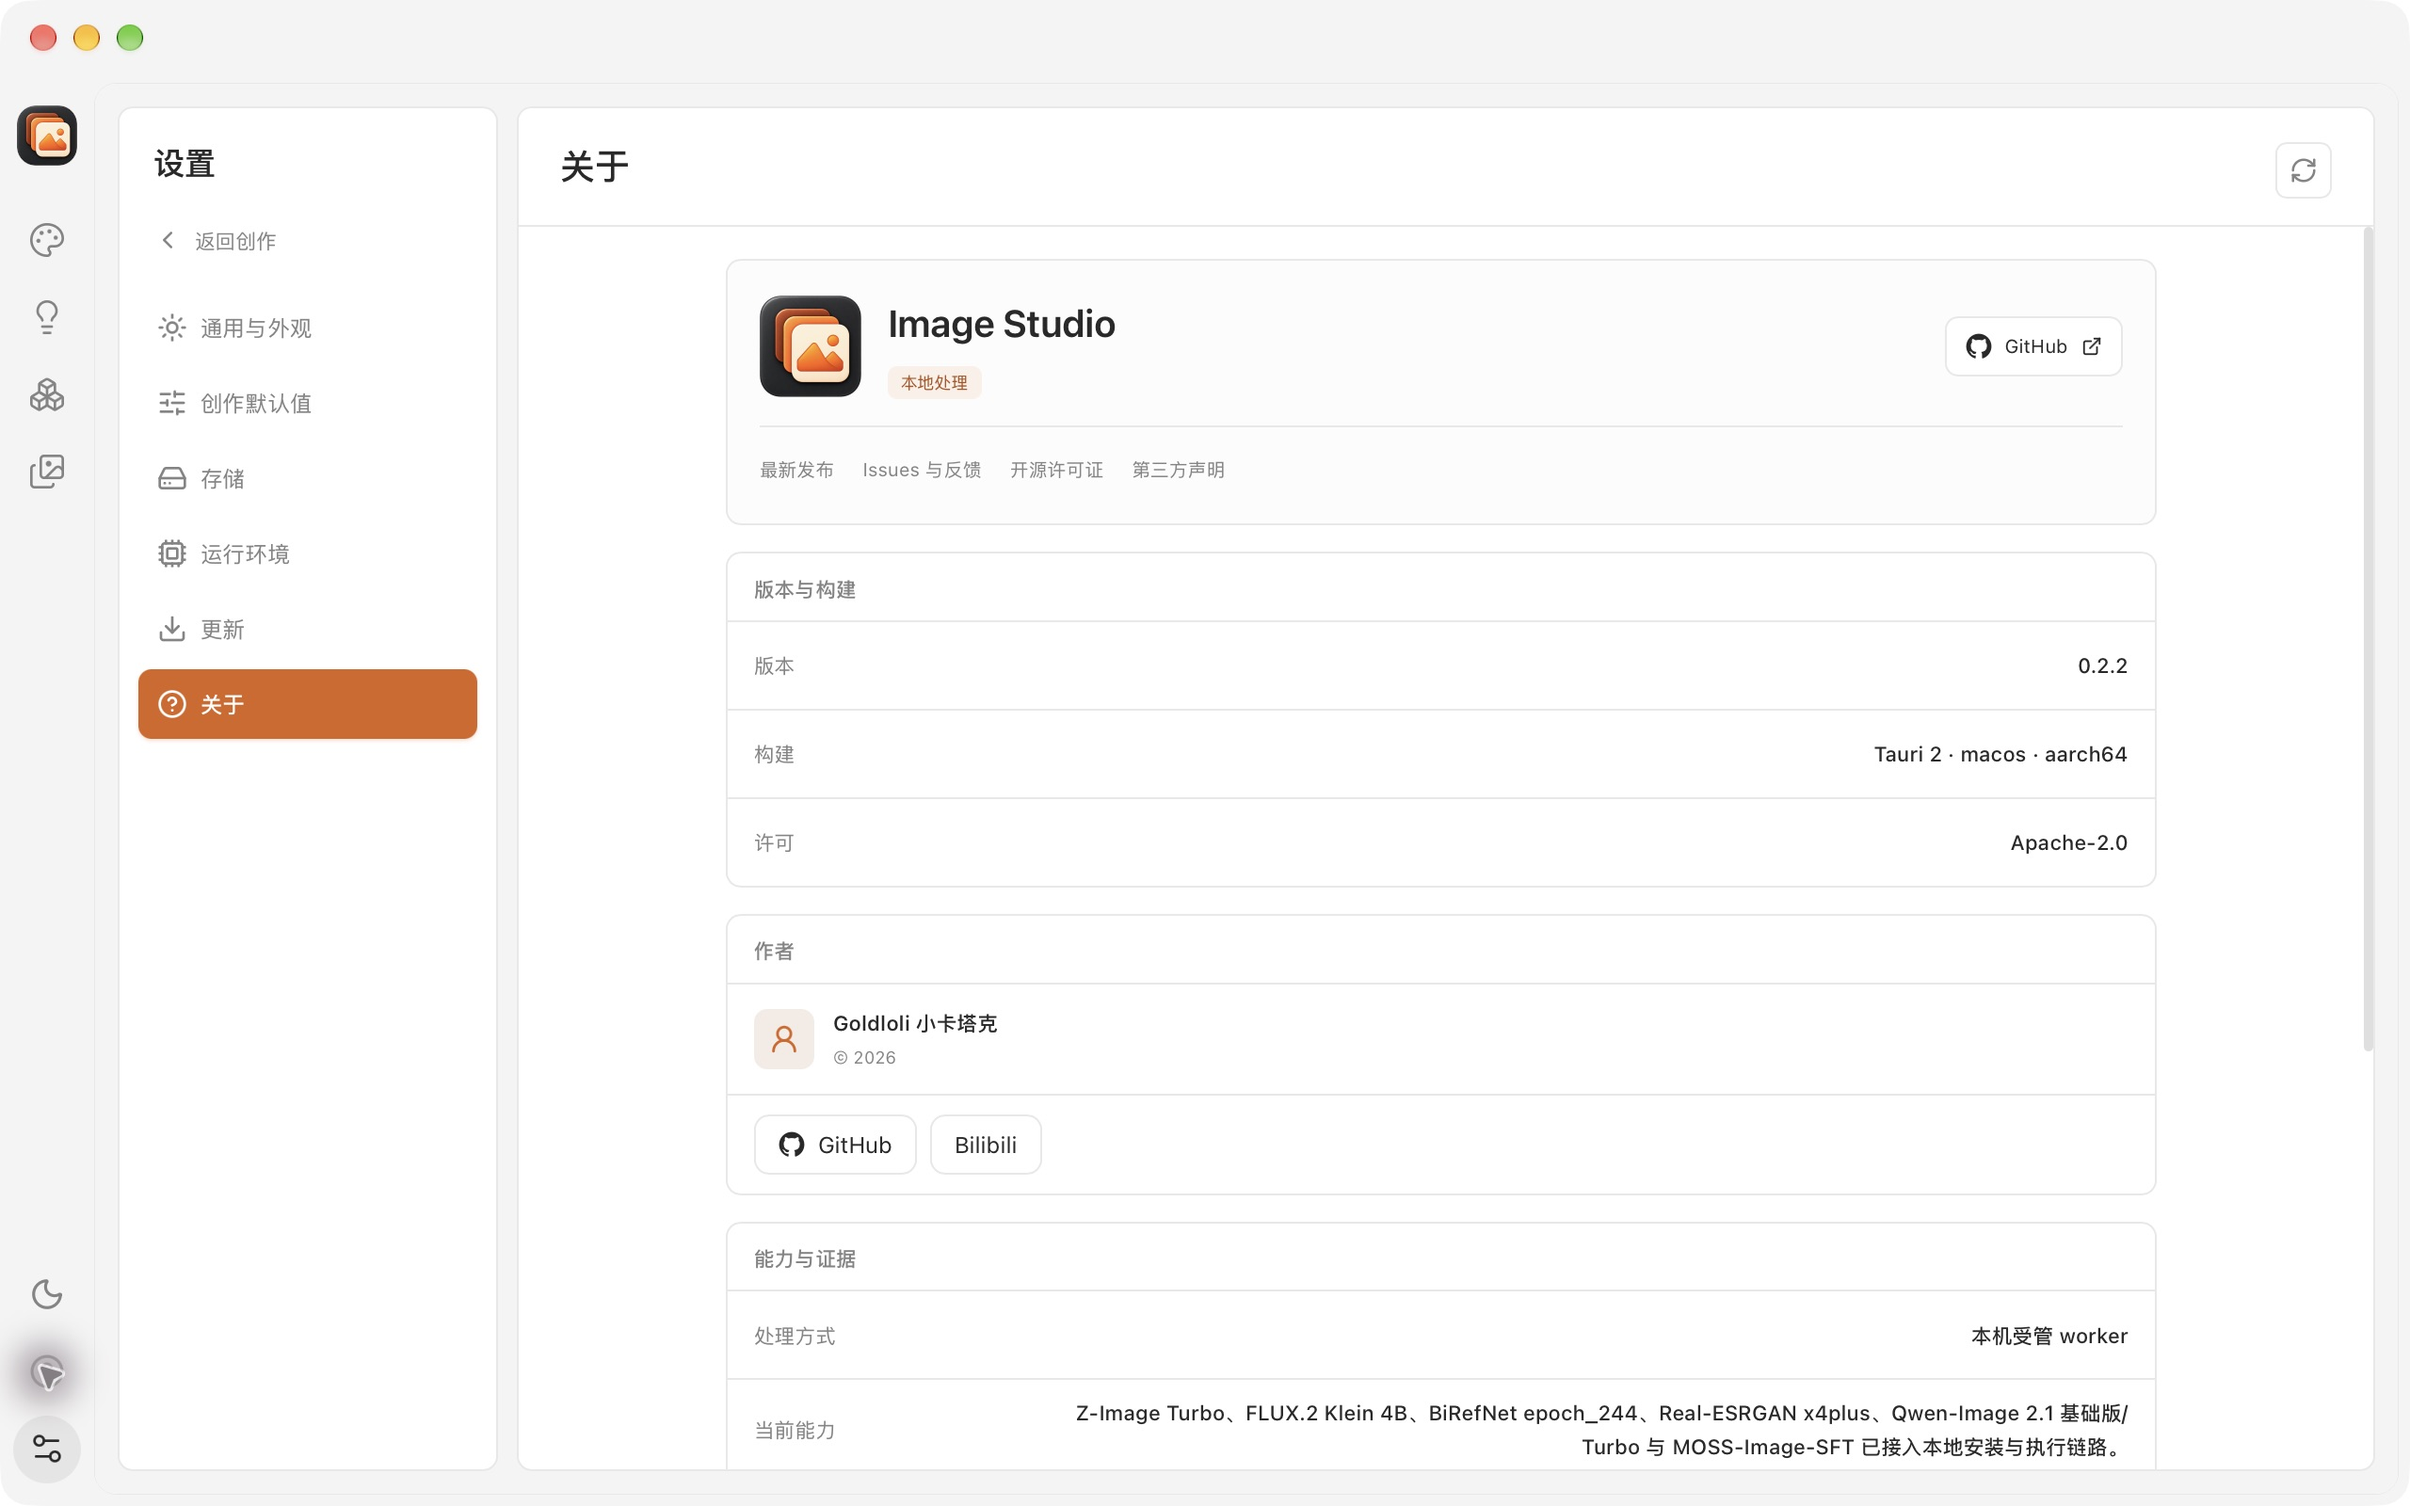
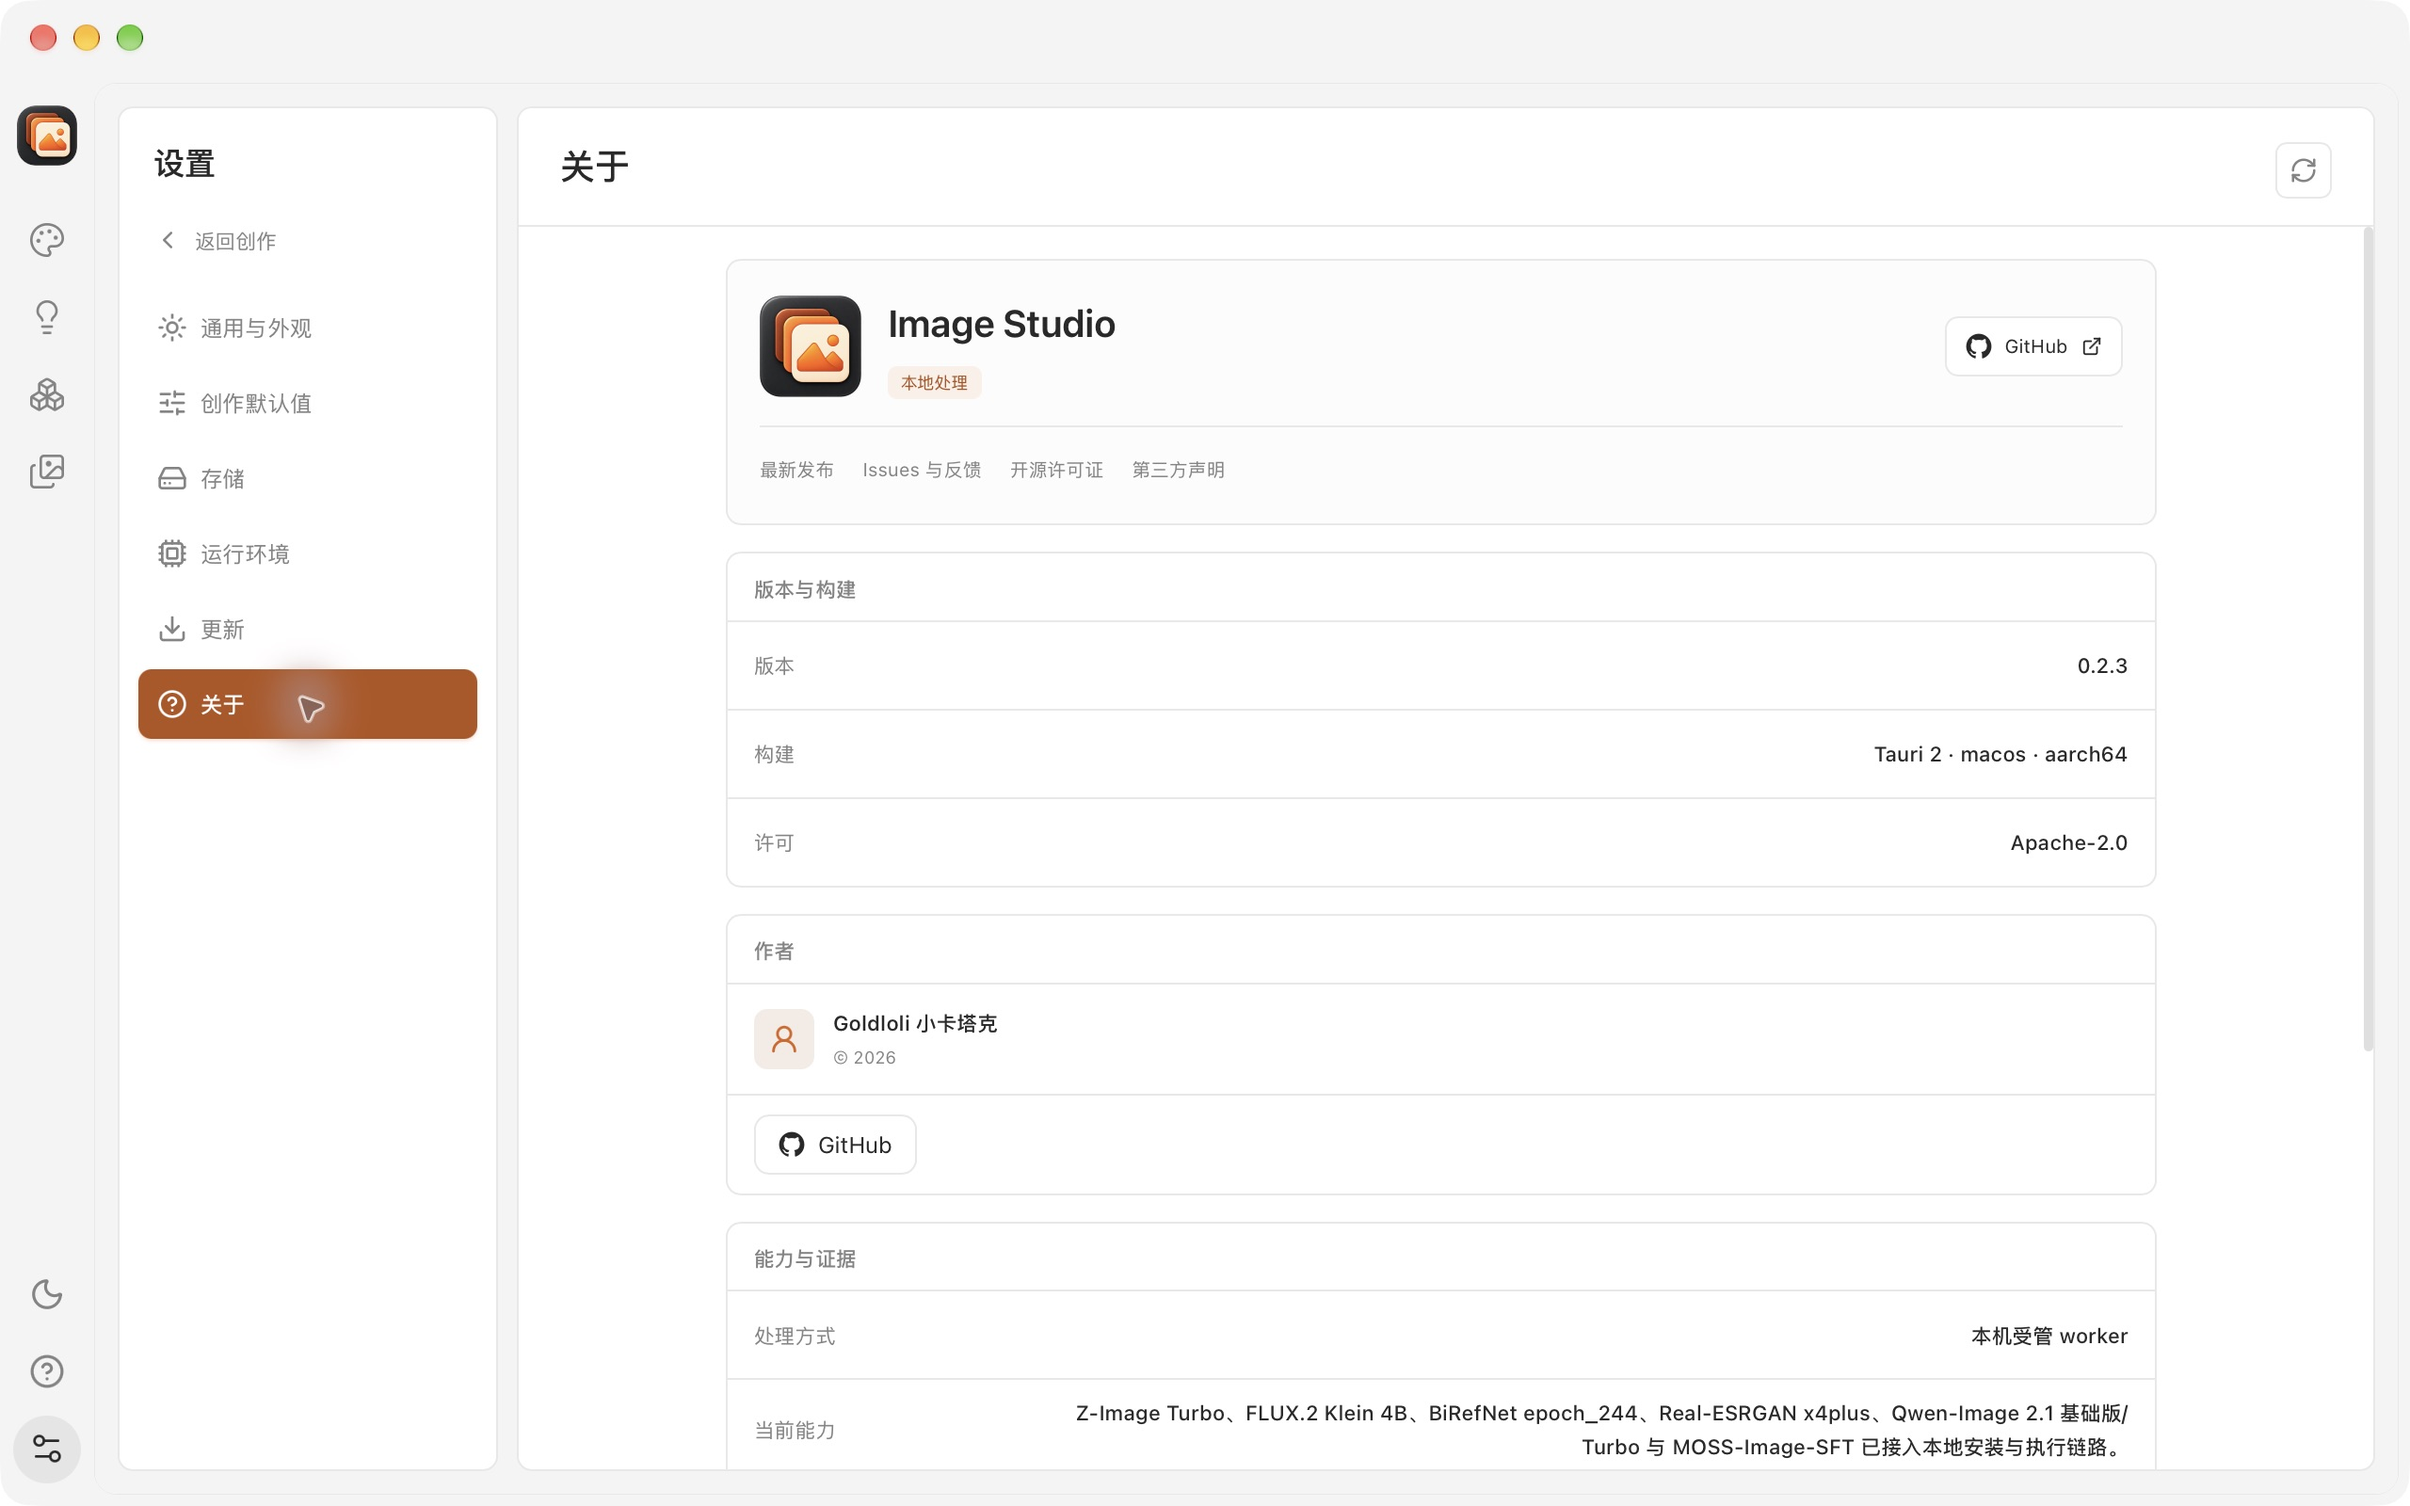
test(release): capture v0.2.3 native evidence

Changed region(s): [[0.0312, 0.4375, 0.2188, 0.5], [0.0, 0.875, 0.0312, 0.9375]]

diff --git a/verification/release-v0.2.3/README.md b/verification/release-v0.2.3/README.md
@@ -1,0 +1,36 @@
+# Image Studio 0.2.3 Release Evidence
+
+Date: 2026-11-14
+Platform: macOS arm64, debug release-verification bundle
+Logical viewport: 1280x800, 1 px/pt
+
+## Screenshots
+
+- `settings-1280-light.jpg`: six-group settings center with persisted accent and
+  row-based controls.
+- `about-1280-light.jpg`: About at version `0.2.3`, with one GitHub project
+  entry and GitHub as the only author link.
+- `updates-1280-light.jpg`: successful check against the public
+  `Goldloli/image-studio` GitHub Releases API. The current development build
+  reports `已是最新` because `0.2.3` is higher than the latest public stable
+  release at check time.
+
+## Verified
+
+- A real update check succeeds with the host's system proxy configuration.
+- The settings UI reports the exact application version `0.2.3`.
+- About contains GitHub, Releases, Issues, license, and third-party links without
+  a Bilibili button.
+- Frontend tests, TypeScript, production build, Rust formatting, Clippy,
+  workspace tests, OpenSpec, workflow validation, and actionlint are required to
+  pass before tagging.
+
+## Not Run
+
+- A real download, SHA-256 verification over release bytes, cancellation,
+  opening the DMG, and macOS installation were not exercised because no newer
+  stable release existed at check time.
+- Windows NSIS download, installation, restart, and active-task refusal remain
+  `not_run` without a Windows session.
+- The macOS build is unsigned and not notarized; no Gatekeeper bypass was
+  attempted.
